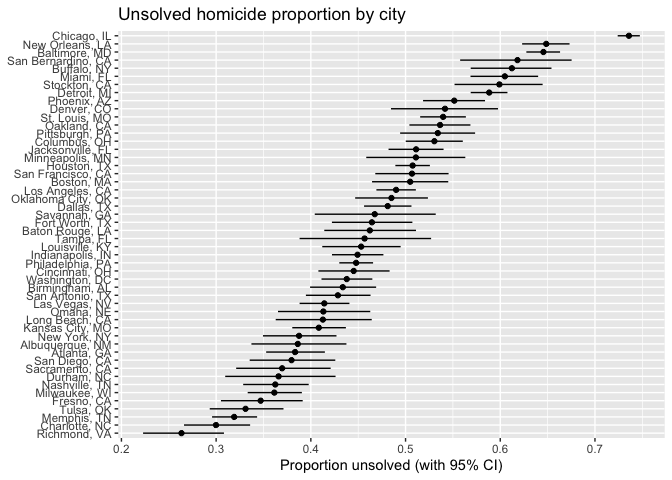
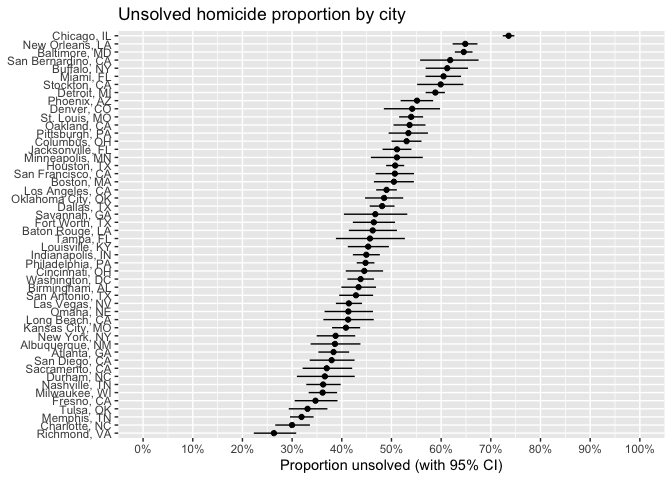
Modified x axes scale to percentage (0–100%)

diff --git a/p8105_hw5_mk4996.md b/p8105_hw5_mk4996.md
@@ -357,11 +357,18 @@ city_est = city_summary |>
 
 city_est |>
   arrange(prop_hat) |>
-  mutate(city_state = factor(city_state, levels = city_state)) |>
+  mutate(city_state = factor(city_state, levels = city_state),
+  prop_hat = prop_hat * 100,
+    ci_low   = ci_low * 100,
+    ci_high  = ci_high * 100
+  ) |>
   ggplot(aes(x = city_state, y = prop_hat)) +
   geom_point() +
   geom_errorbar(aes(ymin = ci_low, ymax = ci_high), width = 0) +
   coord_flip() +
+  scale_y_continuous(limits = c(0, 100),  
+                     breaks = seq(0, 100, by = 10),  
+                     labels = function(x) paste0(x, "%")) + 
   labs(x = NULL, y = "Proportion unsolved (with 95% CI)",
        title = "Unsolved homicide proportion by city")
 ```
